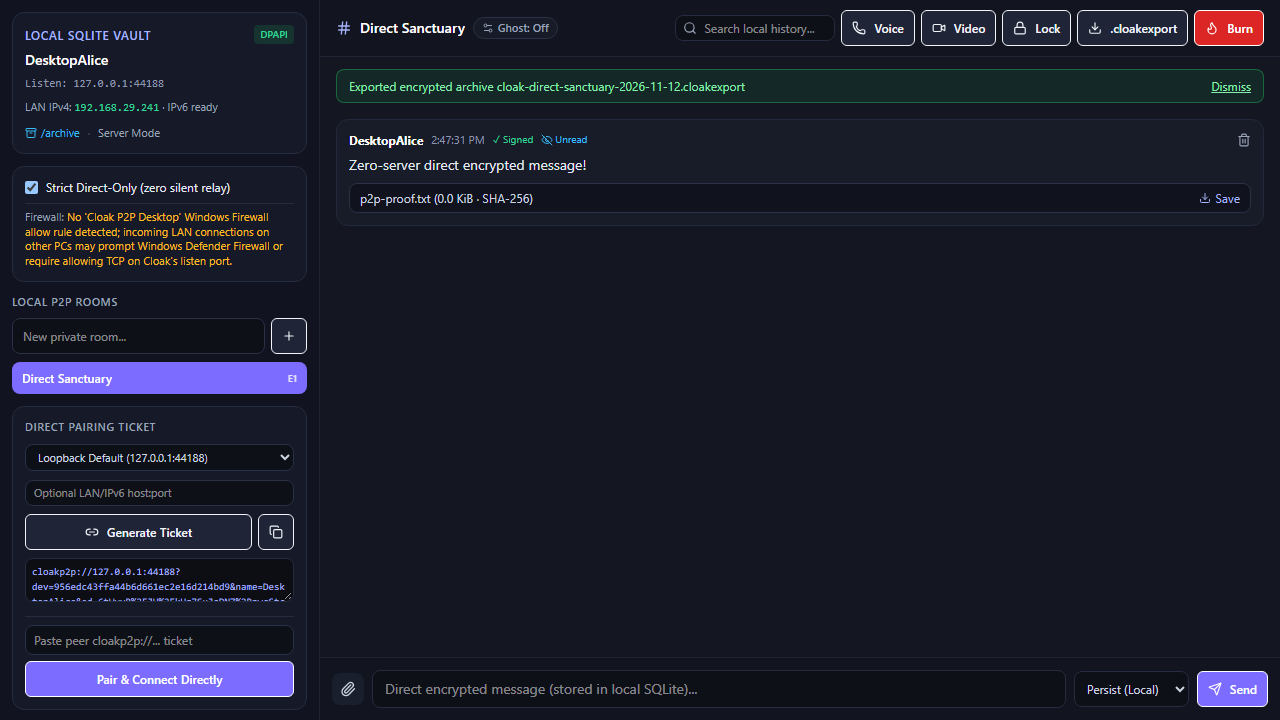
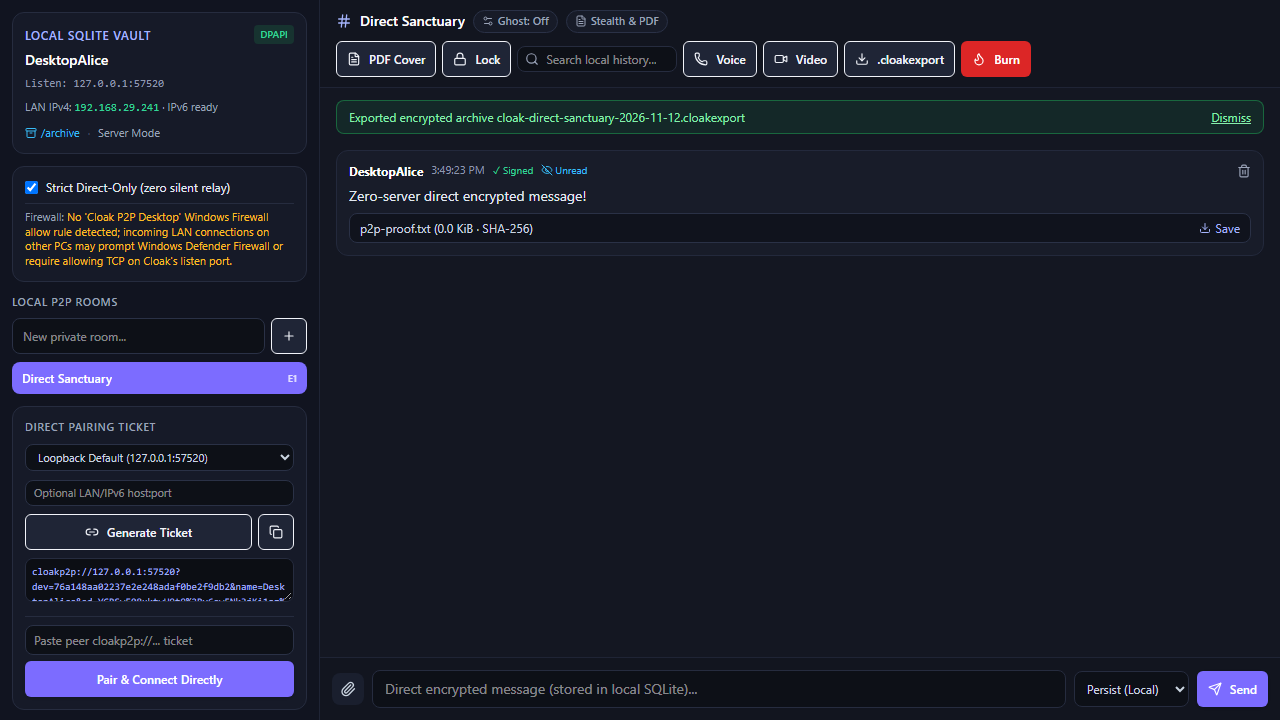
docs: add Phase 10 Stealth Mode docs, Visual QA captures, test results, and updated checksums

diff --git a/docs/IMPLEMENTATION_STATUS.md b/docs/IMPLEMENTATION_STATUS.md
@@ -6,22 +6,33 @@
 
 ---
 
-## 1. Native Local-First Peer-to-Peer Desktop Core (`Phase 9`)
+## 1. Phase 10 Stealth Mode, Offline PDF Decoy & Privacy Automation
 
 | Component | Path | Status |
 |---|---|---|
-| Core P2P Engine & Cryptography | `crates/cloak-p2p` (`crypto.rs`, `transport.rs`, `storage.rs`, `model.rs`, `netinfo.rs`, `ghost.rs`) | Implemented & verified (`6/6` `cloak-p2p` tests passing): Ed25519 mutual handshake, X25519 ephemeral DH + HKDF-SHA-256, mutual HMAC transcript ack, counter-nonce `XChaCha20-Poly1305` frames + FIFO session rekeying, inbound peer key-pinning, Win32 DPAPI field sealing (`CryptProtectData`/`CryptUnprotectData`), Argon2id PIN hashing, LAN/IPv6 interface detection (`primaryLanIp`). |
-| Native WebView2 Desktop Shell | `apps/desktop` (`main.rs`, `native_shell.rs`, `server.rs`, `capture.rs`, `assets.rs`) | Implemented & verified (`1/1` `cloak-desktop` test passing; live OS HWND + GUI verified): `tao` + `wry` embedded WebView2 window, tray icon & menu (`Show` / `Lock` / `Quit`), `rfd` native file dialogs, embedded `.ico`, Win32 `WM_ACTIVATEAPP` subclassing, `SW_MINIMIZE`, `WTSRegisterSessionNotification` (`WM_WTSSESSION_CHANGE`), `SetWindowDisplayAffinity`, loopback bearer-token + Origin/Host API guard, Win32 `EnumWindows` / `PrintWindow` / `StretchBlt` BMP screen/window capture bridge. `--headless` and `--edge-app` fallback modes retained. |
-| Ghost Mode Privacy Engine | `crates/cloak-p2p/src/ghost.rs`, `storage.rs`, `transport.rs` | Implemented & tested (`cloak-p2p` unit tests + Playwright `Spec 2` + Win32 `WM_ACTIVATEAPP`/`SW_MINIMIZE` checks): `off`, `privacy_shield`, `clear_viewed`, `clear_open_conversation` (with explicit confirmation), per-room overrides, `local_suppressions` anti-resurrection tombstone table, viewport dwell `IntersectionObserver`, `in_app_modal_depth` guard, disappearing presets (`on_leave`, `after_view:30`, `after_view:300`, timed). |
-| Windows Installer & Packaging | `apps/desktop/src/bin/cloak_setup.rs`, `scripts/package-windows.ps1` | Implemented & verified on host OS: self-extracting `Cloak-Setup-x64.exe` (`19.12 MiB`), `cloak-desktop.exe` (`17.79 MiB`), `Cloak-Portable-win64.zip` (`5.92 MiB`), `SHA256SUMS.txt`. Silent install, Start Menu/Desktop `.lnk` shortcuts, `HKCU\...\Uninstall\CloakDesktop` registration, and silent `--uninstall --keep-data` verified clean with zero leftovers. |
-| P2P Desktop Frontend & WebRTC Stage | `apps/web/src/lib/p2pClient.ts`, `apps/web/src/pages/P2pWorkspacePage.tsx`, `apps/web/src/components/p2p/P2pGhostSettingsModal.tsx`, `apps/web/src/components/p2p/P2pMediaDock.tsx` | Implemented & Playwright-verified (`3/3` E2E specs passing): session token bootstrap & stripping from URL hash, multi-interface `cloakp2p://` pairing, direct encrypted messaging & search, SHA-256 attachments, `.cloakexport` download, Ghost settings modal & Privacy Shield PIN overlay, two-peer direct `RTCPeerConnection` voice/video (`RX` stats, `<video>` playback, `setSinkId`, early ICE candidate queue, `getDisplayMedia` + native Win32 capture bridge). |
+| Stealth Engine, Secret Unlock & Timers | `crates/cloak-p2p` (`stealth.rs`, `stealth_controller.rs`, `stealth_storage.rs`, `stealth_tests.rs`) | Implemented & verified (`4/4` `stealth_tests` passing): launch view (`messenger`/`pdf_reader`), salted Argon2id secret codes (with multi-action dispatch, Unicode support, case sensitivity toggle, optional 2FA step-up, recovery key, and SQLite-persisted progressive cooldowns in `stealth_rate_limit`), WinRT `UserConsentVerifier` probe, Background-Away / Foreground-Idle / System-Idle timers (`stealth_runtime_checkpoint` overdue recovery + deterministic clock testing), declarative `WHEN [Trigger] -> PERFORM [Actions]` rule engine + non-destructive Test Mode preview. |
+| Route Isolation & Desktop Loopback API | `apps/desktop/src/server.rs`, `apps/desktop/src/native_shell.rs` | Implemented & verified (`2/2` `cloak-desktop` Rust tests + live Win32 HWND verification): `require_unlocked_stealth` (`423 Locked` on private routes while Stealth is locked), `locked_safe_routes`, WebSocket auto-reconnect + `stealth_state_changed` event push, Win32 `GetLastInputInfo` OS idle reporting, `SetWindowDisplayAffinity` (`0x11` `WDA_EXCLUDEFROMCAPTURE`), dynamic Win32 window title & tray tooltip updates (`Document Reader` on lock/minimize). |
+| Offline PDF.js v6 Decoy Shell | `apps/web/src/components/pdf/PdfReaderShell.tsx` | Implemented & Playwright-verified (`externalRequests === []`): local worker bundling (`pdf.worker.min.mjs`), `%PDF-` header validation, Light/Dark themes, Pages/Outline/Saved/Library tabs, multi-tab PDF library (`pdf_library`), zoom/rotate/bookmarks persistence, `Document Properties` SHA-256 popover, in-document text search + PDF search unlock, neutral `Audio Session Active` call badge. |
+| 6-Tab Privacy, Stealth & Ghost Settings Modal | `apps/web/src/components/stealth/P2pStealthSettingsModal.tsx` | Implemented & Visual-QA verified across 16 screenshots (`docs/visual-qa/stealth-mode/`): `Appearance`, `Unlock & Codes`, `Triggers & Timers`, `Actions, Calls & Notices`, `Ghost Mode`, and `Rules & Test Mode` (plus non-destructive preview sandbox). |
 
 ---
 
-## 2. Optional Self-Hosted Server / Browser Stack (Preserved)
+## 2. Native Local-First Peer-to-Peer Desktop Core (`Phase 9`)
 
 | Component | Path | Status |
 |---|---|---|
-| Shared TypeScript Packages | `packages/protocol`, `packages/config`, `packages/crypto`, `packages/archive`, `packages/ui` | Maintained cleanly (`typecheck`, `lint`, `12/12` Vitest tests across `crypto` and `archive` passing). `ModalDialog` extended with fixed `footer` slot. |
-| Web Workspace & `/archive` | `apps/web` | Built cleanly via Vite + Workbox (`dist/sw.js`); composer & export component tests passing (`3/3`). |
-| Rust Relay Services & Infra | `services/core`, `services/api`, `services/worker`, `infrastructure/*` | Preserved in workspace (`cargo test --workspace` was reported passing in prior recovery baseline; Phase 9 focused testing on `-p cloak-p2p -p cloak-desktop`). |
+| Core P2P Engine & Cryptography | `crates/cloak-p2p` (`crypto.rs`, `transport.rs`, `storage.rs`, `model.rs`, `netinfo.rs`, `ghost.rs`) | Implemented & verified (`10/10` total `cloak-p2p` tests passing): Ed25519 mutual handshake, X25519 ephemeral DH + HKDF-SHA-256, mutual HMAC transcript ack, counter-nonce `XChaCha20-Poly1305` frames + FIFO session rekeying, inbound peer key-pinning, Win32 DPAPI field sealing (`CryptProtectData`/`CryptUnprotectData`), Argon2id PIN hashing, LAN/IPv6 interface detection (`primaryLanIp`). |
+| Native WebView2 Desktop Shell | `apps/desktop` (`main.rs`, `native_shell.rs`, `server.rs`, `capture.rs`, `assets.rs`) | Implemented & verified (`cloak-desktop.exe` `20.9 MiB`): `tao` + `wry` embedded WebView2 window, tray icon & menu (`Show` / `Switch to PDF Cover` / `Lock` / `Quit`), `rfd` native file dialogs, embedded `.ico`, Win32 `WM_ACTIVATEAPP`, `SW_MINIMIZE`, `WTSRegisterSessionNotification` (`WM_WTSSESSION_CHANGE`), `SetWindowDisplayAffinity`, loopback bearer-token + Origin/Host API guard, Win32 screen/window capture bridge. `--headless` and `--edge-app` fallback modes retained. |
+| Ghost Mode Privacy Engine | `crates/cloak-p2p/src/ghost.rs`, `storage.rs`, `transport.rs` | Implemented & tested (`cloak-p2p` unit tests + Playwright `Spec 2` & `stealth-mode.spec.ts`): `off`, `privacy_shield`, `clear_viewed`, `clear_open_conversation`, per-room overrides, `local_suppressions` anti-resurrection tombstone table, viewport dwell `IntersectionObserver`, `in_app_modal_depth` guard, disappearing presets (`on_leave`, `after_view:30`, `after_view:300`, timed). |
+| Windows Installer & Packaging | `apps/desktop/src/bin/cloak_setup.rs`, `scripts/package-windows.ps1` | Verified via `scripts/package-windows.ps1`: `Cloak-Setup-x64.exe` (`22.23 MiB`), `cloak-desktop.exe` (`20.9 MiB`), `Cloak-Portable-win64.zip` (`6.71 MiB`), `SHA256SUMS.txt`. |
+| P2P Desktop Frontend & WebRTC Stage | `apps/web/src/lib/p2pClient.ts`, `apps/web/src/pages/P2pWorkspacePage.tsx`, `apps/web/src/components/p2p/P2pGhostSettingsModal.tsx`, `apps/web/src/components/p2p/P2pMediaDock.tsx` | Implemented & Playwright-verified (`4/4` combined E2E specs passing across `p2p-desktop.spec.ts` + `stealth-mode.spec.ts`): session token bootstrap, WebSocket auto-reconnect, HTTP 423 lock-safe handling, `cloakp2p://` pairing, direct encrypted messaging & search, SHA-256 attachments, `.cloakexport` download, Ghost/Stealth settings UI, two-peer direct `RTCPeerConnection` voice/video (`RX` stats, `<video>` playback, `setSinkId`, early ICE candidate queue, `getDisplayMedia` + native Win32 capture bridge). |
+
+---
+
+## 3. Optional Self-Hosted Server / Browser Stack (Preserved)
+
+| Component | Path | Status |
+|---|---|---|
+| Shared TypeScript Packages | `packages/protocol`, `packages/config`, `packages/crypto`, `packages/archive`, `packages/ui` | Maintained cleanly (`typecheck`, `lint`, `12/12` Vitest tests across `crypto` and `archive` passing). |
+| Web Workspace & `/archive` | `apps/web` | Built cleanly via Vite + Workbox (`dist/sw.js`, `pdf.worker.min.mjs`); `ComposerAndExport.test.tsx` (`3/3` passing). |
+| Rust Relay Services & Infra | `services/core`, `services/api`, `services/worker`, `infrastructure/*` | Preserved in workspace; `cargo clippy --all-targets -- -D warnings` passes cleanly across all targets. |

diff --git a/docs/STEALTH_VISUAL_QA.md b/docs/STEALTH_VISUAL_QA.md
@@ -1,0 +1,30 @@
+# Stealth Mode Visual QA Report (Phase 10)
+
+All 16 screenshots below were generated during Playwright E2E execution (`tests/e2e/stealth-mode.spec.ts`), stored in `docs/visual-qa/stealth-mode/`, and directly inspected.
+
+## Screenshot Inventory & Inspection Summary
+
+| # | File | Verified Observation |
+|---|---|---|
+| 01 | [01-pdf-welcome-empty.png](file:///C:/D%20drive/Personal%20Project/dIscord%20clone/docs/visual-qa/stealth-mode/01-pdf-welcome-empty.png) | Empty decoy state renders neutral `"Document Reader"` welcome card (`Import Local PDF` / `Open Sample Reference PDF`), `Offline Local Mode` footer, zero Cloak branding. |
+| 02 | [02-pdf-document-open-light.png](file:///C:/D%20drive/Personal%20Project/dIscord%20clone/docs/visual-qa/stealth-mode/02-pdf-document-open-light.png) | Light theme PDF viewer renders Page 1 of `q3-architecture-notes.pdf` (`Quarterly Systems Review`) cleanly with wrapped lines, left thumbnail strip (`Pages`), `Fit Width`, `159%`. |
+| 03 | [03-pdf-document-dark-bookmarks.png](file:///C:/D%20drive/Personal%20Project/dIscord%20clone/docs/visual-qa/stealth-mode/03-pdf-document-dark-bookmarks.png) | Dark chrome theme (`#111827`), Page 2 rotated `90°`, `Saved` bookmarks sidebar showing `Remove Page 2` / `Page 2` without page reset. |
+| 04 | [04-pdf-outline-and-properties.png](file:///C:/D%20drive/Personal%20Project/dIscord%20clone/docs/visual-qa/stealth-mode/04-pdf-outline-and-properties.png) | Active search query `"thermal monitoring"` highlighting match (`1/1 Prev Next`) on Page 3 (`Section 3: Operational Notes`) + `Outline` sidebar + floating `Document Properties` popover with SHA-256 hash. |
+| 05 | [05-pdf-multi-tab-library.png](file:///C:/D%20drive/Personal%20Project/dIscord%20clone/docs/visual-qa/stealth-mode/05-pdf-multi-tab-library.png) | Multi-tab PDF switcher (`Q3 Architecture & Compliance...` and `audit-memo`), `Library` tab listing `Local Documents (2)` (`1p • 512 B`, `3p • 1.8 KiB`). |
+| 06 | [06-pdf-hidden-unlock-overlay.png](file:///C:/D%20drive/Personal%20Project/dIscord%20clone/docs/visual-qa/stealth-mode/06-pdf-hidden-unlock-overlay.png) | Hidden `Ctrl+Shift+U` overlay (`Enter Command / Access Code`) with `Secret Code` / `Command` / `Passphrase` / `PIN` pills, `Use recovery key`, `Submit`, zero Cloak leakage. |
+| 07 | [07-stealth-settings-appearance.png](file:///C:/D%20drive/Personal%20Project/dIscord%20clone/docs/visual-qa/stealth-mode/07-stealth-settings-appearance.png) | Settings Tab 1 (`Appearance`): Launch view, PDF return behavior, decoy PDF selector, theme selector, `Neutral Window Title While Concealed` (`Document Reader`). |
+| 08 | [08-stealth-settings-unlock-codes.png](file:///C:/D%20drive/Personal%20Project/dIscord%20clone/docs/visual-qa/stealth-mode/08-stealth-settings-unlock-codes.png) | Settings Tab 2 (`Unlock & Codes`): Pathway checkboxes, live Windows Hello probe status (`Unavailable (DeviceNotPresent)`), Argon2id secret-code creation form. |
+| 09 | [09-stealth-settings-triggers-timers.png](file:///C:/D%20drive/Personal%20Project/dIscord%20clone/docs/visual-qa/stealth-mode/09-stealth-settings-triggers-timers.png) | Settings Tab 3 (`Triggers & Timers`): 9 trigger checkboxes, `Background-Away Timer (Does NOT reset while using other apps)`, `Foreground App Inactivity`, `Windows OS Idle (GetLastInputInfo)`. |
+| 10 | [10-stealth-settings-calls-notifications.png](file:///C:/D%20drive/Personal%20Project/dIscord%20clone/docs/visual-qa/stealth-mode/10-stealth-settings-calls-notifications.png) | Settings Tab 4 (`Actions, Calls & Notices`): `Visual Stealth Action`, Voice/Camera/Screen Share privacy dropdowns, generic PDF call indicator toggle, per-context Notification privacy levels. |
+| 11 | [11-stealth-settings-ghost-mode.png](file:///C:/D%20drive/Personal%20Project/dIscord%20clone/docs/visual-qa/stealth-mode/11-stealth-settings-ghost-mode.png) | Settings Tab 5 (`Ghost Mode`): Independent local retention engine toggle, 4 retention mode cards (`Keep Everything`, `Privacy Shield`, `Delete Viewed Messages`, `Delete Active Conversation`), attachment purge, Win32 `SetWindowDisplayAffinity` toggle. |
+| 12 | [12-stealth-settings-rules-testmode.png](file:///C:/D%20drive/Personal%20Project/dIscord%20clone/docs/visual-qa/stealth-mode/12-stealth-settings-rules-testmode.png) | Settings Tab 6 (`Rules & Test Mode`): Declarative `WHEN [Trigger] -> PERFORM [Actions]` rules list and non-destructive `Safe Test Mode Sandbox` preview (`Resulting Surface: pdf_reader · Locks UI: true · Mock Cleared: 0 · Mock Remaining: 5`). |
+| 13 | [13-pdf-call-indicator-concealed.png](file:///C:/D%20drive/Personal%20Project/dIscord%20clone/docs/visual-qa/stealth-mode/13-pdf-call-indicator-concealed.png) | Concealed Voice Call over PDF decoy (`audit-memo.pdf`): renders canvas cleanly alongside neutral green `Audio Session Active` pill in status bar; zero peer/room strings leaked. |
+| 14 | [14-unlocked-messenger-1920x1080.png](file:///C:/D%20drive/Personal%20Project/dIscord%20clone/docs/visual-qa/stealth-mode/14-unlocked-messenger-1920x1080.png) | Unlocked 1920×1080 workspace showing `Stealth: PDF Armed` pill, `PDF Cover`, `Lock`, `Hidden Ops Vault` room, paired peer, and `Alpha classified note (viewed)`. |
+| 15 | [15-pdf-decoy-1366x768.png](file:///C:/D%20drive/Personal%20Project/dIscord%20clone/docs/visual-qa/stealth-mode/15-pdf-decoy-1366x768.png) | 1366×768 responsive decoy PDF layout with single-row top toolbar, rendered canvas, and zero horizontal overflow. |
+| 16 | [16-pdf-decoy-narrow-window.png](file:///C:/D%20drive/Personal%20Project/dIscord%20clone/docs/visual-qa/stealth-mode/16-pdf-decoy-narrow-window.png) | Narrow 720×640 decoy PDF layout: top toolbar wraps cleanly onto two rows without clipping controls, zero horizontal page overflow. |
+
+## Issues Identified & Fixed During Visual QA
+
+1. **Sample PDF right-edge text clipping (`server.rs`):** Initial sample PDF generation placed long strings beyond standard margins; wrapped sample prose at ~72 chars inside `build_valid_sample_pdf_bytes()`.
+2. **PDF reader page-reset on state patch (`PdfReaderShell.tsx`):** `useEffect` previously depended on the `activeDoc` object reference, causing page turns, rotations, and bookmarks to reload the document from page 1. Fixed by keying on `[activeDocId, docs.length, openPdfFromRecord]` with refs.
+3. **Call-concealed PDF capture timing (`13-pdf-call-indicator-concealed.png`):** Updated `stealth-mode.spec.ts` to await `[data-testid="pdf-reader-shell"] main canvas` visibility before taking screenshot 13 so both rendered PDF content and the `Audio Session Active` pill appear together.

diff --git a/docs/STEALTH_MODE_ARCHITECTURE.md b/docs/STEALTH_MODE_ARCHITECTURE.md
@@ -1,0 +1,26 @@
+# Stealth Mode Architecture (Phase 10)
+
+**Branch:** `recovery/p2p-desktop`  
+**Primary Modules:**
+- `crates/cloak-p2p/src/stealth.rs` — Domain structs (`StealthConfig`, `StealthBootstrapState`, `StealthVisualAction`, `StealthLaunchView`, `PrivacyTriggerKind`, `PrivacyRule`, `UnlockPreferences`, `PdfReaderSettings`, `TimerPreferences`, `CallPrivacySettings`, `NotificationPrivacySettings`), Argon2id hashing/verification, progressive cooldown math, and PDF header validation.
+- `crates/cloak-p2p/src/stealth_controller.rs` — `StealthController` thread-safe runtime state machine, trigger dispatch, multi-factor/two-step unlock orchestration, Windows Hello WinRT probe/prompt helpers, and `NodeEvent::StealthStateChanged` broadcasting.
+- `crates/cloak-p2p/src/stealth_storage.rs` — SQLite tables in `cloak_local.db` (`stealth_settings`, `stealth_secret_codes`, `stealth_passphrase`, `stealth_rate_limit`, `stealth_runtime_checkpoint`, `pdf_library`).
+- `apps/desktop/src/server.rs` — Locked route isolation middleware (`require_unlocked_stealth`), loopback session-token guard (`require_loopback_auth`), WebSocket event streaming (`/p2p/v1/ws`), and embedded static assets.
+- `apps/desktop/src/native_shell.rs` — Native `tao`/`wry` Win32/WebView2 window lifecycle hooks (`WM_ACTIVATEAPP`, minimize/restore, `WTSRegisterSessionNotification` for `WM_WTSSESSION_CHANGE`, `GetLastInputInfo` OS idle polling, `SetWindowDisplayAffinity`, neutral window title + tray tooltip).
+- `apps/web/src/components/pdf/PdfReaderShell.tsx` & `apps/web/src/components/stealth/P2pStealthSettingsModal.tsx` — Offline PDF.js v6 decoy interface and 6-tab Settings UI.
+
+## Surface Lifecycle & Strict Boundary
+
+1. **Dual-Surface State Machine (`StealthLifecycleState`):**
+   - `UnlockedMessenger`: Active private Cloak workspace. Private `/p2p/v1/*` routes (status, peers, rooms, messages, files, capture, settings) are accessible.
+   - `ConcealedUnlocked`: Visual decoy surface (`pdf_reader`, `neutral_placeholder`, `minimized`, or `hidden_to_tray`) without locking credentials (`LockAction::KeepUnlocked`).
+   - `DecoyLocked`: Locked decoy surface; `StealthBootstrapState.locked == true`.
+
+2. **HTTP & WebSocket Isolation When Locked (`apps/desktop/src/server.rs`):**
+   - `private_routes` use `middleware::from_fn_with_state(..., require_unlocked_stealth)` which rejects any request with `423 Locked` whenever `node.stealth().is_locked()` is true.
+   - `locked_safe_routes` expose only cover-surface endpoints (`/stealth/bootstrap`, `/stealth/unlock`, `/stealth/recover`, `/stealth/trigger`, `/stealth/foreground-activity`, `/stealth/system-idle`, `/stealth/call-summary`, `/stealth/return-messenger`, `/stealth/test-clock-advance`, `/pdf/documents*`, and `/ws`).
+   - On transition into concealment/lock, `P2pWorkspacePage.tsx` calls `clearSensitiveTransientState(next.locked)` so rooms, peers, messages, and search state are scrubbed from React state immediately.
+
+3. **Separation of Visual Concealment vs. Local Erasure:**
+   - Stealth Mode manages *visual cover* and *UI locking*; Ghost Mode manages *local SQLite and attachment blob erasure*.
+   - A trigger can conceal to the PDF reader while keeping all local messages intact (`LocalDeletionAction::KeepAll`), or combine concealment with `DeleteViewedLocal` / `DeleteOpenConversation` / `DeleteAllLocal` through `PrivacyRule` or timer expiry actions.

diff --git a/docs/STEALTH_TEST_RESULTS.md b/docs/STEALTH_TEST_RESULTS.md
@@ -1,0 +1,35 @@
+# Phase 10 Stealth Mode Verification & Benchmark Results
+
+All checks below ran directly against the current workspace after final code and UI builds on `recovery/p2p-desktop`.
+
+## 1. Automated Test & Static Analysis Summary
+
+| Check | Command | Observed Result |
+|---|---|---|
+| TypeScript check (all 6 workspaces) | `npm run typecheck` | **Passed** (`exit 0`: `@cloak/protocol`, `@cloak/crypto`, `@cloak/archive`, `@cloak/config`, `@cloak/ui`, `@cloak/web`) |
+| ESLint | `npm run lint` | **Passed** (`exit 0`: `eslint apps packages tests`) |
+| Vitest unit suite | `npm run test:unit` | **3/3 files, 15/15 tests passed** (`crypto.test.ts` 6/6, `archive.test.ts` 6/6, `ComposerAndExport.test.tsx` 3/3) |
+| Rust formatting | `cargo +stable-x86_64-pc-windows-gnu fmt --all -- --check` | **Passed** (`exit 0`) |
+| Rust Clippy lints | `cargo +stable-x86_64-pc-windows-gnu clippy --all-targets -- -D warnings` | **Passed** (`0 warnings` across all workspace targets) |
+| Rust `cloak-desktop` integration tests | `cargo +stable-x86_64-pc-windows-gnu test -p cloak-desktop -- --test-threads=1` | **2/2 passed** (`desktop_embedded_ui_security_guard_and_two_instance_p2p_flow`, `stealth_locked_blocks_private_routes_until_secret_code_unlock`) |
+| Rust `cloak-p2p` core + stealth tests | `cargo +stable-x86_64-pc-windows-gnu test -p cloak-p2p -- --test-threads=1` | **10/10 passed** (`4/4` `stealth_tests::*` + `6/6` `tests::*`) |
+| Playwright Phase 9 + Phase 10 E2E suites | `npx playwright test tests/e2e/p2p-desktop.spec.ts tests/e2e/stealth-mode.spec.ts` | **4/4 passed** in `32.6s` (3 Phase 9 specs + 1 full Phase 10 Stealth/PDF/Timer/Visual-QA spec; `externalRequests === []`) |
+
+## 2. Live Windows OS Win32 HWND Verification
+
+Executed against non-headless `target\release\cloak-desktop.exe` using Win32 `EnumWindows`, `GetWindowText`, `GetWindowDisplayAffinity`, and `ShowWindow(hwnd, SW_MINIMIZE)`:
+- Visible top-level window acquired (`HWND=3081040`), initial title `'Cloak'`, initial affinity `0x0`.
+- Enabled `captureProtection` (`PUT /p2p/v1/ghost/policy`) -> `GetWindowDisplayAffinity` returned **`0x11`** (`WDA_EXCLUDEFROMCAPTURE`).
+- Minimized real HWND via `ShowWindow(hwnd, 6)` -> `stealth/bootstrap` transitioned to `activeSurface='pdf_reader'`, `locked=True`, and `GetWindowText` updated to **`'Document Reader'`**.
+
+## 3. Release Packaging & Benchmarks (`scripts/package-windows.ps1` & `scripts/bench-desktop.ps1`)
+
+| Artifact / Metric | Measured Result |
+|---|---|
+| `target\release\cloak-desktop.exe` | **20.9 MiB** (`SHA256: 0D06AC2651464CD8215B0DAE16555C96578B0A7D45507D7D77AD2435D22DC003`) |
+| `dist-windows\Cloak-Setup-x64.exe` | **22.23 MiB** (`SHA256: 7CAC12F1363A4AB086E4F6343EAD30119EBAC1B113412FE9A6691859435C9591`) |
+| `dist-windows\Cloak-Portable-win64.zip` | **6.71 MiB** (`SHA256: 4A9D03517A177FD177B37AA9C21633F1B5392895A4B5B61E0B75B2978A5C1596`) |
+| Native WebView2 GUI cold HTTP ready | **1169.3 ms** (`NativeGuiWorkingSetMiB: 49.3 MiB`) |
+| Headless cold startup | **1050.5 ms** (`HeadlessIdleRamMiB: 14.77 MiB`) |
+| 50 sequential encrypted SQLite + P2P messages | **198.5 ms** (`SyncedMessagesOnPeer: 50`) |
+| 2 MiB localhost file transfer | **914.5 ms** (`VerifiedBytesOnPeer: 2097152` bytes) |

diff --git a/docs/SECRET_UNLOCK_SECURITY.md b/docs/SECRET_UNLOCK_SECURITY.md
@@ -1,0 +1,33 @@
+# Secret Unlock Security & Rate-Limiting Design
+
+**Primary Files:** `crates/cloak-p2p/src/stealth.rs`, `crates/cloak-p2p/src/stealth_controller.rs`, `crates/cloak-p2p/src/stealth_storage.rs`
+
+## Zero Plaintext & Cryptographic Verification
+
+- Every secret unlock code, standalone passphrase, and recovery code is hashed with **Salted Argon2id** (`Algorithm::Argon2id`, `Version::V0x13`, `Params::new(19456, 2, 1, None)`) via `hash_secret_code` / `verify_secret_code` in `crates/cloak-p2p/src/stealth.rs`.
+- Normalized input preserves Unicode text and only lowercases characters when `case_sensitive` is `false`.
+- Weak-code screening (`is_weak_secret_code`) flags short/trivial codes (< 6 chars or common literals) in the UI without storing raw secrets on disk.
+- Neither `stealth_secret_codes` nor `stealth_passphrase` nor GET `/p2p/v1/stealth/codes` ever returns plaintext secret values or raw hashes to the frontend (`StealthSecretCodeSummary` returns metadata only: `id`, `label`, `action`, `targetRoomId`, `caseSensitive`, `isWeak`, `requireAdditionalAuth`, `createdAt`, `lastUsedAt`).
+
+## Supported Unlock Pathways & Actions
+
+- **Methods (`UnlockMethod`):** `PdfSearch` (Enter in PDF reader search bar), `HiddenShortcutInput` (`Ctrl+Shift+U` neutral `Enter Command / Access Code` dialog), `DiscreetCommand` (`:`/`>` command prompt), `Passphrase`, `Pin`, and `WindowsHello` (`Windows.Security.Credentials.UI.UserConsentVerifier::RequestVerificationAsync`).
+- **Configured Secret Code Actions (`SecretCodeAction`):**
+  - `UnlockMessenger`: opens private messenger
+  - `UnlockDirectRoom`: opens a specific room (`pendingNavigationTarget`)
+  - `OpenPrivacySettings`: unlocks directly into Privacy & Stealth Settings (`pendingOpenPrivacySettings`)
+  - `DecoyOnlyStayPdf`: returns `matched = false` surface change (`stay_pdf` outcome) without revealing private chats
+  - `WipeAndResetDecoy`: permanently wipes local messages via Ghost engine while staying in locked PDF decoy mode
+- **Two-Step Verification (`requireAdditionalAuth`):** If enabled globally (`unlock.requireAdditionalAuth`) or per secret code, submitting a valid code transitions to `step_up_required` and requires a configured second passphrase or PIN before unlocking.
+- **Recovery Key:** Generating a recovery code stores its Argon2id hash inside `stealth_settings`/`stealth_passphrase` recovery slot (`POST /p2p/v1/stealth/recovery-code`, verified by `POST /p2p/v1/stealth/recover`).
+
+## Persistent Progressive Cooldown (`stealth_rate_limit`)
+
+- Failed attempts increment `failed_attempts` in SQLite table `stealth_rate_limit` (`singleton = 1`) and persist `cooldown_until_ms`, `lockout_tier`, and `last_failed_at` across process restarts.
+- Cooldown progression (`next_progressive_cooldown_secs`):
+  - Attempts 1–2: `0s`
+  - Attempt 3: `15s`
+  - Attempt 4: `30s`
+  - Attempt 5: `60s`
+  - Attempts 6+: `300s`
+- Any valid unlock or recovery resets `failed_attempts = 0`, `cooldown_until_ms = NULL`, and `lockout_tier = 0`.

diff --git a/docs/PDF_READER_IMPLEMENTATION.md b/docs/PDF_READER_IMPLEMENTATION.md
@@ -1,0 +1,22 @@
+# Offline PDF Reader Decoy Implementation
+
+**Components:**
+- `apps/web/src/components/pdf/PdfReaderShell.tsx`
+- `apps/desktop/src/server.rs` (`/pdf/documents`, `/pdf/documents/pick`, `/pdf/documents/sample`, `/pdf/documents/{id}/content`, `/pdf/documents/{id}`)
+- `crates/cloak-p2p/src/stealth_storage.rs` (`pdf_library` SQLite table + `%LOCALAPPDATA%/.../pdfs/` byte store)
+
+## Genuine Offline Rendering (`pdfjs-dist` v6)
+
+- Uses `pdfjs-dist` and a bundled local module worker (`new URL('pdfjs-dist/build/pdf.worker.min.mjs', import.meta.url)`), packaged inside Vite `apps/web/dist` and embedded directly in `cloak-desktop.exe` via `include_dir!`.
+- Zero external network requests, CDNs, or telemetry calls are made at runtime (verified by Playwright `externalRequests === []`).
+- Valid PDF validation (`validate_pdf_document` in `crates/cloak-p2p/src/stealth.rs`) checks non-empty `%PDF-` magic header and bounded file size before storing into the local `pdf_library` catalog. Corrupt or non-PDF payloads are rejected before persistence.
+- Built-in local sample PDF generator (`build_valid_sample_pdf_bytes()` in `apps/desktop/src/server.rs`) creates a 3-page reference PDF (`q3-architecture-notes.pdf`) with clean line-wrapped text so PDF.js thumbnails, text layer, and search work even without importing external files.
+
+## Interactive Reader Capabilities
+
+- **Library & Multi-Tab Viewing:** Import local `.pdf` files via native `rfd` file picker (`/pdf/documents/pick`) or file upload (`/pdf/documents`), drag-and-drop onto the viewport, manage multiple open document tabs, and delete saved documents.
+- **Navigation, Zoom & Rotation:** Page backward/forward and direct page input, zoom presets (`fit_width`, `fit_page`, `actual_size`, `custom`), zoom +/- controls, and 90° page rotation.
+- **Persistence:** `PATCH /p2p/v1/pdf/documents/{id}` persists `lastPage`, `zoomMode`, `zoomPercent`, `rotationDeg`, `bookmarks`, and `lastOpenedAt` in `pdf_library` (supporting `PdfReturnBehavior::LastOpened`, `LastPagePosition`, or `AlwaysDefault`).
+- **Sidebar Tabs & Popovers:** `Pages` thumbnail strip, `Outline` document outline tree, `Saved` bookmarks panel, `Library` manager, `Document Properties` popover (title, filename, page count, byte size, SHA-256 prefix), and Light/Dark PDF chrome themes.
+- **In-Document Text Search + Secret Code Routing:** Pressing Enter on the `Search in document` form checks Stealth unlock via `p2pApi.unlockStealth('pdf_search', query)` when `pdf_search` is enabled; if the query does not match a configured secret code, it executes local PDF.js text search across pages without leaking failed-unlock noise into ordinary reading.
+- **No Sensitive Metadata Leaks:** While concealed during a voice call, the status bar renders at most a neutral `Audio Session Active` pill (configurable via `showCallIndicatorInPdf`), with zero Cloak branding or peer/room names.

diff --git a/docs/STEALTH_SECURITY_LIMITATIONS.md b/docs/STEALTH_SECURITY_LIMITATIONS.md
@@ -1,0 +1,16 @@
+# Stealth & Security Limitations
+
+Honest documentation of threat-model boundaries observed in the current Phase 10 Windows implementation:
+
+1. **Local Process Memory & Unlocked WebView2 State:**
+   - While unlocked, active messages, peer names, and cryptographic keys live in memory inside `cloak-desktop.exe` and the WebView2 renderer process. Locking triggers `clearSensitiveTransientState(true)` in React and switches private HTTP routes to `423 Locked`, but OS administrators or local kernel debuggers inspecting live RAM while unlocked (or capturing WebView2 process heaps before GC) remain outside application-level secrecy.
+2. **Process & Window Class Observability:**
+   - Stealth Mode updates the Win32 top-level window title (`window.set_title(&boot.window_title)`, default `"Document Reader"`) and tray tooltip when concealed, and suppresses notifications (`PdfMode` / `WindowsLocked`). However, Task Manager still identifies the binary process name (`cloak-desktop.exe`) and executable metadata on disk.
+3. **Loopback Localhost Architecture (`127.0.0.1`):**
+   - The native WebView2 shell loads `apps/web/dist` served from an ephemeral loopback HTTP port with a per-launch random `32`-byte bearer token passed via `window.__CLOAK_SESSION_TOKEN__` (`main.rs`, `native_shell.rs`, `server.rs`). Other unprivileged processes under the same Windows user account cannot read the bearer token via unauthenticated HTTP calls (`401 Unauthorized` without Bearer token), though another process running as the same user with debug privileges can inspect process memory or command-line args if tokens/flags are passed explicitly.
+4. **Windows Hello Availability:**
+   - Real WinRT `UserConsentVerifier::CheckAvailabilityAsync` is queried at startup (`crates/cloak-p2p/src/stealth_controller.rs`). On machines or VM environments without biometric/PIN enrollment, `windows_hello_available` reports `false` (`Unavailable (DeviceNotPresent)`) honestly rather than faking biometric success, and `unlock` falls back to Argon2id passcodes/PIN/passphrase/recovery keys.
+5. **WebView2 & Win32 Capture Protection Scope:**
+   - `SetWindowDisplayAffinity(hwnd, WDA_EXCLUDEFROMCAPTURE)` (`0x11`) blocks screen capture of the Cloak window when enabled (`captureProtection = true` in Ghost settings), verified on Windows via `GetWindowDisplayAffinity`. OS screen readers, elevated kernel drivers, or physical cameras pointed at the monitor cannot be blocked by User32 flags.
+6. **Peer Copy Persistence & Disappearing vs. Local Wipe:**
+   - Direct P2P messaging replicates encrypted payloads onto paired peers' local SQLite stores; local Ghost/Stealth wipe only deletes the local device's rows and suppresses local re-sync (`local_suppressions`). It cannot force-wipe an adversary's disk.

diff --git a/docs/PRIVACY_RULE_ENGINE.md b/docs/PRIVACY_RULE_ENGINE.md
@@ -1,0 +1,25 @@
+# Privacy Rule Engine Architecture
+
+**Primary Files:** `crates/cloak-p2p/src/stealth.rs`, `crates/cloak-p2p/src/stealth_controller.rs`, `apps/web/src/components/stealth/P2pStealthSettingsModal.tsx`
+
+## Rule Model (`PrivacyRule`)
+
+Each rule expresses a deterministic declarative automation tuple:
+- **WHEN (`trigger: PrivacyTriggerKind`):** `FocusLoss`, `AltTab`, `ClickOtherApp`, `Minimize`, `ShowDesktop`, `VirtualDesktopSwitch`, `SessionLock`, `WindowClose`, `AppRestart`, `BackgroundAwayTimeout`, `ForegroundIdleTimeout`, `SystemIdleTimeout`, `PanicHotkey`, `ManualSwitchToPdf`, `ManualLock`, `IncomingMessageWhileLocked`.
+- **Visual Surface (`visual_action: StealthVisualAction`):** `SwitchToPdf`, `NeutralPlaceholder`, `MinimizeWindow`, `HideToTray`, `StayNormal`.
+- **Lock Behavior (`lock_action: LockAction`):** `HardLock` (require re-unlock and enforce HTTP `423 Locked`), `KeepUnlocked` (conceal visually without locking credentials), `PromptBeforeUnlock`.
+- **Local Deletion (`deletion_action: LocalDeletionAction`):** `KeepAll`, `DeleteViewedLocal`, `DeleteViewedPreserveUnread`, `DeleteOpenConversation`, `DeleteAllLocal`.
+- **Attachments (`attachment_action: AttachmentPurgeAction`):** `KeepBlobs` or `PurgeRelated`.
+- **Call / Notification Overrides:** Optional `notification_action`, `voice_action`, `camera_action`, `screen_share_action`, optional `scope_room_id`, and `priority`.
+
+## Conflict Resolution (`evaluate_privacy_rules`)
+
+1. All enabled rules matching the firing `PrivacyTriggerKind` are evaluated.
+2. Highest `priority` wins on visual surface (`visual_action`) when rules tie or conflict; stricter lock/deletion actions (`HardLock`, higher local deletion severity, `PurgeRelated`, more restrictive notification/media policies) take precedence safely rather than silently downgrading protection.
+3. Unmatched triggers fall back to the top-level `StealthConfig` defaults (e.g., `stealth_visual_action`, global Ghost policy).
+
+## Non-Destructive Safe Test Mode Sandbox (`POST /p2p/v1/stealth/test-preview`)
+
+- Accessible in tab 6 (`Rules & Test Mode`) of `P2pStealthSettingsModal`.
+- Accepts a simulated trigger, mock viewed message count, mock unread message count, and fallback deletion policy (`TestModePreviewRequest`).
+- Evaluates the exact same rule engine (`evaluate_privacy_rules`) against in-memory mock counts to report resulting surface, lock state, mock cleared/remaining counts, and call/notification outcomes without mutating real SQLite rooms, messages, or runtime state.

diff --git a/docs/INACTIVITY_TIMER_DESIGN.md b/docs/INACTIVITY_TIMER_DESIGN.md
@@ -1,0 +1,28 @@
+# Inactivity & Background-Away Timer Design
+
+**Primary Files:** `crates/cloak-p2p/src/stealth.rs` (`TimerPreferences`), `crates/cloak-p2p/src/stealth_controller.rs` (`tick_timers`, `notify_window_focus_restored`, `report_foreground_activity`, `report_system_idle_ms`, `advance_test_clock_ms`), `crates/cloak-p2p/src/stealth_storage.rs` (`stealth_runtime_checkpoint`)
+
+## Three Distinct Timers
+
+1. **Background-Away Timer (`backgroundAwayEnabled`, `backgroundAwaySeconds`):**
+   - Armed when the Cloak window loses focus, is minimized, or switches away (`is_away == true`).
+   - Records an absolute deadline (`away_deadline_ms = now_ms + backgroundAwaySeconds * 1000`) persisted inside `stealth_runtime_checkpoint`.
+   - **Crucially:** continuing to use the mouse/keyboard in other applications or on the OS desktop does **not** reset this timer.
+   - Configurable return behavior:
+     - `backgroundAwayCancelOnReturn`: cancels the pending deadline when focus returns before expiry.
+     - `backgroundAwayPreserveDeadline`: keeps the original absolute deadline across brief focus returns.
+   - Supports independent expiry local deletion via `backgroundAwayDeletion` (e.g., `KeepAll` vs. `DeleteViewedLocal` preserving unread incoming messages).
+
+2. **Foreground App Inactivity Timer (`foregroundIdleEnabled`, `foregroundIdleSeconds`):**
+   - Tracks interaction inside the Cloak window itself via `last_foreground_activity_ms`.
+   - Triggered only while Cloak is in focus; suppressed when paused inside guarded modals (`in_app_modal_depth > 0`) unless explicitly locked.
+
+3. **Windows OS System Idle Timer (`systemIdleEnabled`, `systemIdleSeconds`):**
+   - Driven by native Win32 `GetLastInputInfo` sampling in `apps/desktop/src/native_shell.rs` every 2 seconds (or `/p2p/v1/stealth/system-idle`).
+   - Reflects global keyboard/mouse idle across all Windows applications.
+
+## Crash / Restart Recovery & Deterministic Clock Testing
+
+- `stealth_runtime_checkpoint` persists `away_deadline_ms`, `locked`, and `active_surface` into SQLite whenever runtime state changes.
+- On cold boot (`StealthController::new`), overdue deadlines elapsed while powered off or closed are detected and evaluated (`BackgroundAwayTimeout`) immediately rather than silently dropped.
+- `test_clock_offset_ms` (`POST /p2p/v1/stealth/test-clock-advance`) shifts controller time deterministically for fast, flake-free unit and Playwright verification (e.g., advancing `+65_000 ms` across a `60s` away timer).

diff --git a/docs/GHOST_MODE_DELETION.md b/docs/GHOST_MODE_DELETION.md
@@ -1,0 +1,15 @@
+# Ghost Mode Deletion & Stealth Independence
+
+**Primary Files:** `crates/cloak-p2p/src/ghost.rs`, `crates/cloak-p2p/src/storage.rs`, `crates/cloak-p2p/src/transport.rs`, `crates/cloak-p2p/src/stealth_controller.rs`
+
+## Local-Only Erasure Semantics
+
+- Ghost Mode (`GhostPolicy`, `GhostRuntimeState`) acts strictly on the local SQLite database (`cloak_local.db`) and local attachment blob directory (`attachments`).
+- Clearing viewed messages (`clear_viewed`), open conversations (`clear_open_conversation`), or full wipes never sends remote revocation frames or erases messages held on a peer's device — verified in Rust tests and Playwright (`StealthBob` still sees `Alpha classified note (viewed)` even after `StealthAlice`'s 60s `BackgroundAwayTimeout` executes `delete_viewed_local`).
+
+## Anti-Resurrection & Unread Preservation
+
+1. **Viewed Tracking (`mark_viewed`):** Messages become eligible for `clear_viewed` only after observed in the active channel viewport (`IntersectionObserver` dwell threshold) or configured outgoing viewed policy (`immediate_after_dwell`, `preserve_outgoing`, `immediate_on_send`).
+2. **Unread Preservation:** Incoming messages delivered over P2P while concealed/blurred (for example `Beta unread message` sent while Alice is locked in PDF cover) are stored encrypted locally with `viewed_at = NULL`, so `DeleteViewedLocal` / `DeleteViewedPreserveUnread` preserves them until viewed after unlocking.
+3. **Suppression Registry (`local_suppressions` table):** Deleted local message IDs are recorded inside `local_suppressions` before deleting rows from `messages` / `attachments`. When peers reconnect or replay sync frames, P2P ingestion checks `local_suppressions` so erased local history never resurrects on reconnect or restart.
+4. **Decoupled from Stealth Cover:** Triggering `ManualSwitchToPdf`, `FocusLoss`, `Minimize`, or `PanicHotkey` visually switches to the PDF reader and/or locks routes without touching local `messages` when `deletion_action == KeepAll`. Conversely, privacy rules or away-timer expiry can invoke Ghost local deletion directly while staying locked in the decoy surface.
